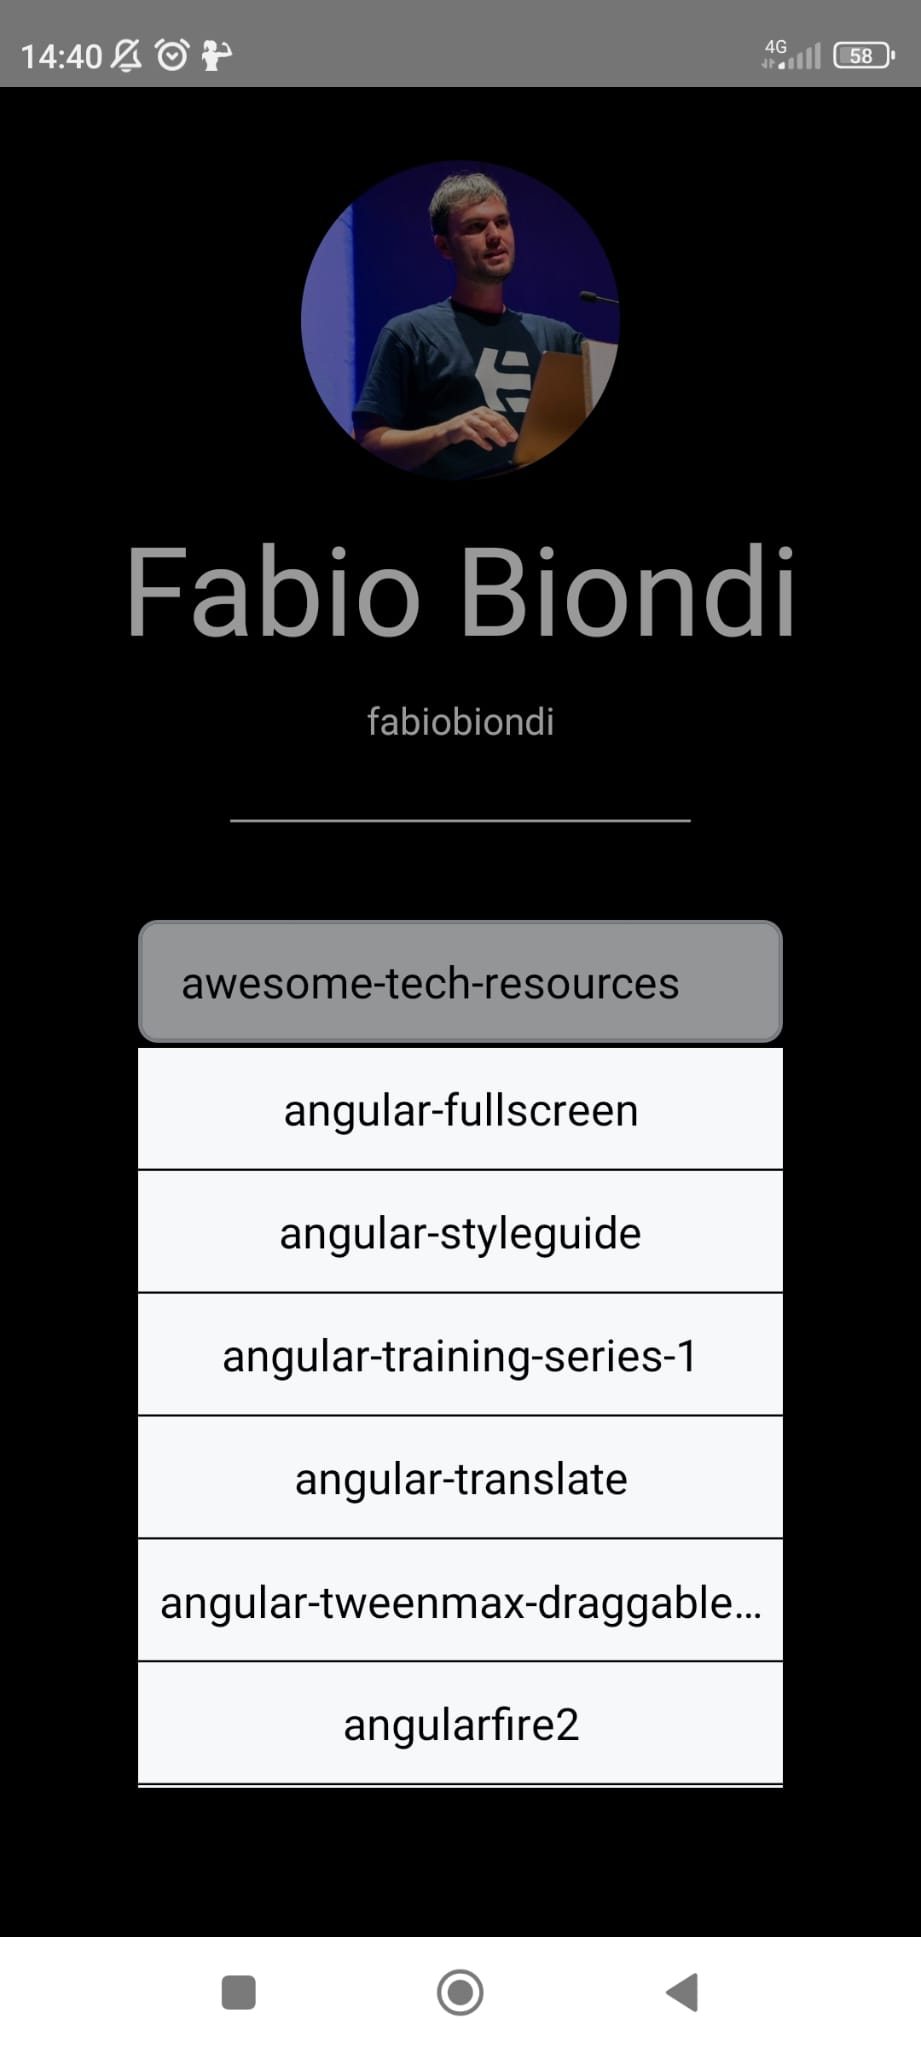
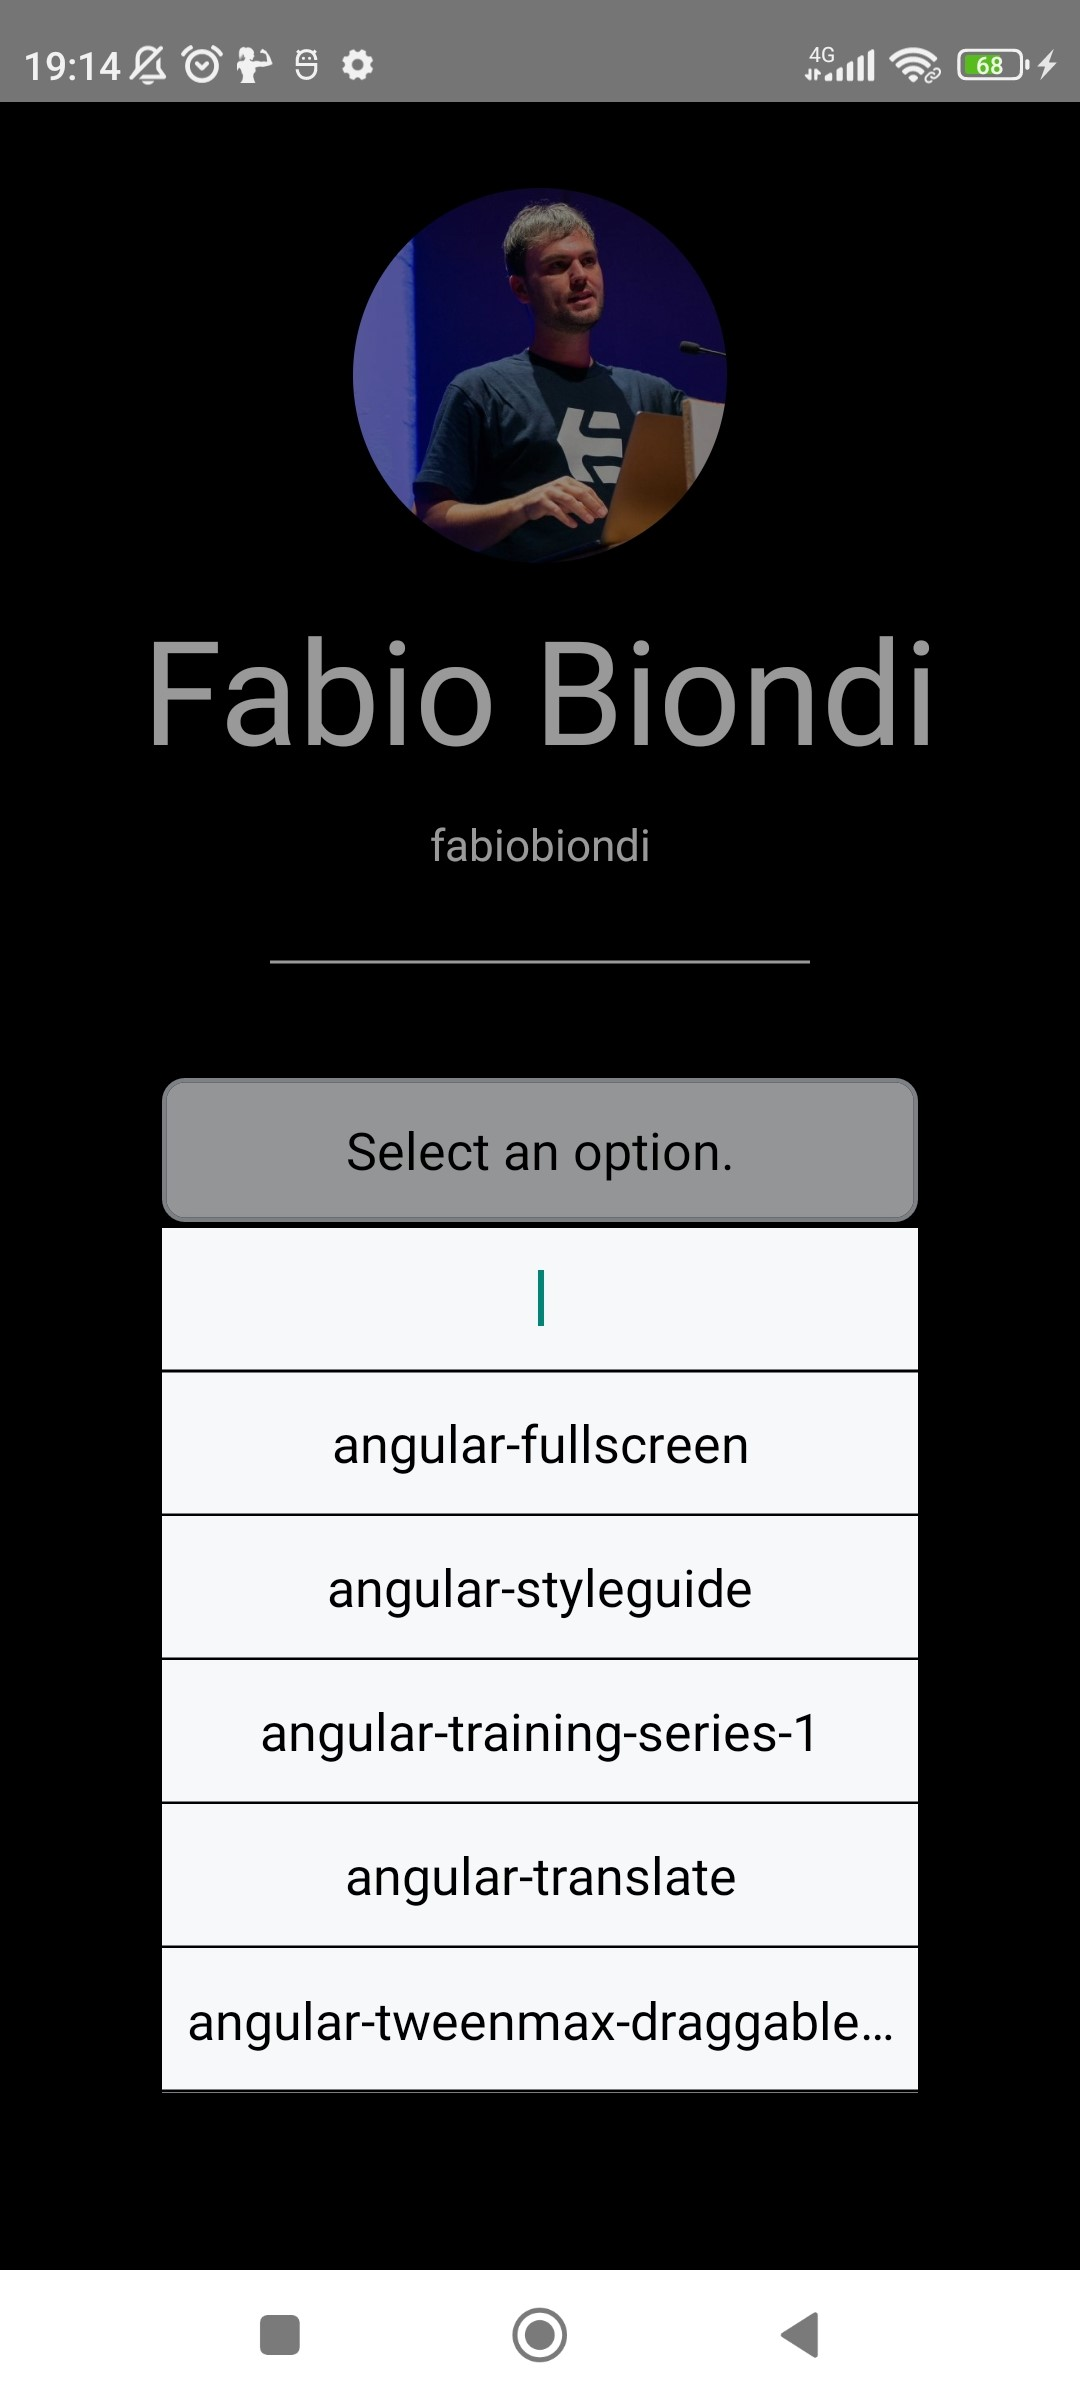
fix dropdown and change screen

diff --git a/app/screens/resultPage/Styles.ts b/app/screens/resultPage/Styles.ts
@@ -36,8 +36,12 @@ export const style = StyleSheet.create({
     paddingLeft: 10,
     paddingRight: 10,
   },
-  dropdownBtnTxtStyle: {color: '#000000', textAlign: 'left'},
-  dropdownDropdownStyle: {backgroundColor: '#f6f8fa'},
+  dropdownBtnTxtStyle: {color: '#000000', textAlign: 'center'},
+  dropdownDropdownStyle: {
+    backgroundColor: '#f6f8fa',
+    borderBottomColor: '#000000',
+    borderBottomWidth: 1,
+  },
   dropdownRowStyle: {backgroundColor: '#f6f8fa', borderBottomColor: '#000000'},
   dropdownRowTxtStyle: {color: '#000000', textAlign: 'center'},
 });

diff --git a/app/screens/resultPage/ResultPage.tsx b/app/screens/resultPage/ResultPage.tsx
@@ -60,6 +60,9 @@ const ResultPage: React.FC<Props> = ({route, navigation}) => {
             <View style={style.containerSelect} testID="dropdown-test">
               {repos.length > 0 ? (
                 <SelectDropdown
+                  search
+                  searchInputStyle={style.dropdownDropdownStyle}
+                  searchInputTxtStyle={style.dropdownRowTxtStyle}
                   buttonStyle={style.dropdownBtnStyle}
                   buttonTextStyle={style.dropdownBtnTxtStyle}
                   dropdownStyle={style.dropdownDropdownStyle}
